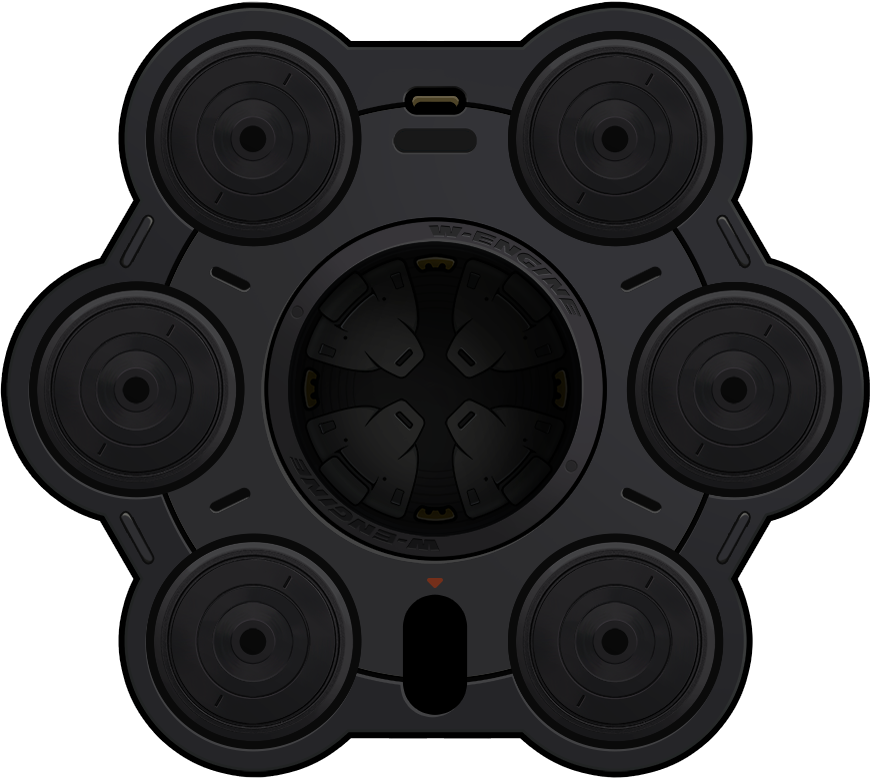
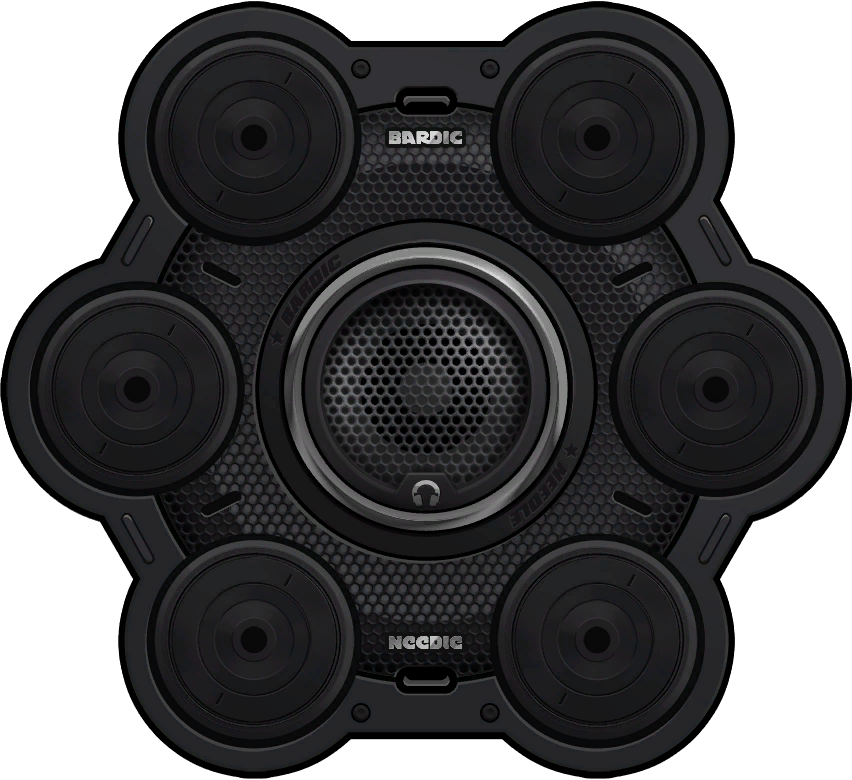
feat(disc-hex): swap base image to EquipBg04 (BARDIC/NCCDIC audio frame)
- resources/disc/hex-frame.png replaced with EquipBg04.png (852×780,
  was 870×778).
- Re-ran Hough Circle detection on the new source; cavity centers
  shifted slightly outward and the new badge size pct is 25 instead
  of 24. Updated SLOTS coords + aspect-ratio in module.css.

diff --git a/src/components/DiscHexCard.tsx b/src/components/DiscHexCard.tsx
@@ -25,18 +25,18 @@ interface Slot {
 }
 
 // Cavity centers in % of frame. Auto-detected via OpenCV Hough Circle
-// transform on the source PNG; r≈107 across all 6 → 24% diameter.
+// transform on the EquipBg04.png source (852×780); r≈107 → ~25% diameter.
 const SLOTS: Slot[] = [
-  { bg: 'EquipPositionBg06.png', cx: 29.2, cy: 17.9 }, // left-top   = slot 6
-  { bg: 'EquipPositionBg01.png', cx: 15.6, cy: 50.0 }, // left-mid   = slot 1
-  { bg: 'EquipPositionBg02.png', cx: 29.2, cy: 82.3 }, // left-bot   = slot 2
-  { bg: 'EquipPositionBg03.png', cx: 70.7, cy: 82.3 }, // right-bot  = slot 3
-  { bg: 'EquipPositionBg04.png', cx: 84.4, cy: 49.9 }, // right-mid  = slot 4
-  { bg: 'EquipPositionBg05.png', cx: 70.7, cy: 17.6 }, // right-top  = slot 5
+  { bg: 'EquipPositionBg06.png', cx: 29.8, cy: 17.6 }, // left-top   = slot 6
+  { bg: 'EquipPositionBg01.png', cx: 16.3, cy: 49.7 }, // left-mid   = slot 1
+  { bg: 'EquipPositionBg02.png', cx: 29.9, cy: 81.9 }, // left-bot   = slot 2
+  { bg: 'EquipPositionBg03.png', cx: 70.2, cy: 82.2 }, // right-bot  = slot 3
+  { bg: 'EquipPositionBg04.png', cx: 84.0, cy: 49.7 }, // right-mid  = slot 4
+  { bg: 'EquipPositionBg05.png', cx: 70.1, cy: 17.8 }, // right-top  = slot 5
 ];
 
 /** Diameter of each slot badge as % of frame width. */
-const BADGE_SIZE_PCT = 24;
+const BADGE_SIZE_PCT = 25;
 
 export function DiscHexCard() {
   return (

diff --git a/src/components/DiscHexCard.module.css b/src/components/DiscHexCard.module.css
@@ -12,7 +12,7 @@
   position: relative;
   width: 100%;
   max-width: 540px;
-  aspect-ratio: 870 / 778;
+  aspect-ratio: 852 / 780;
   margin: 8px auto 0;
 }
 
